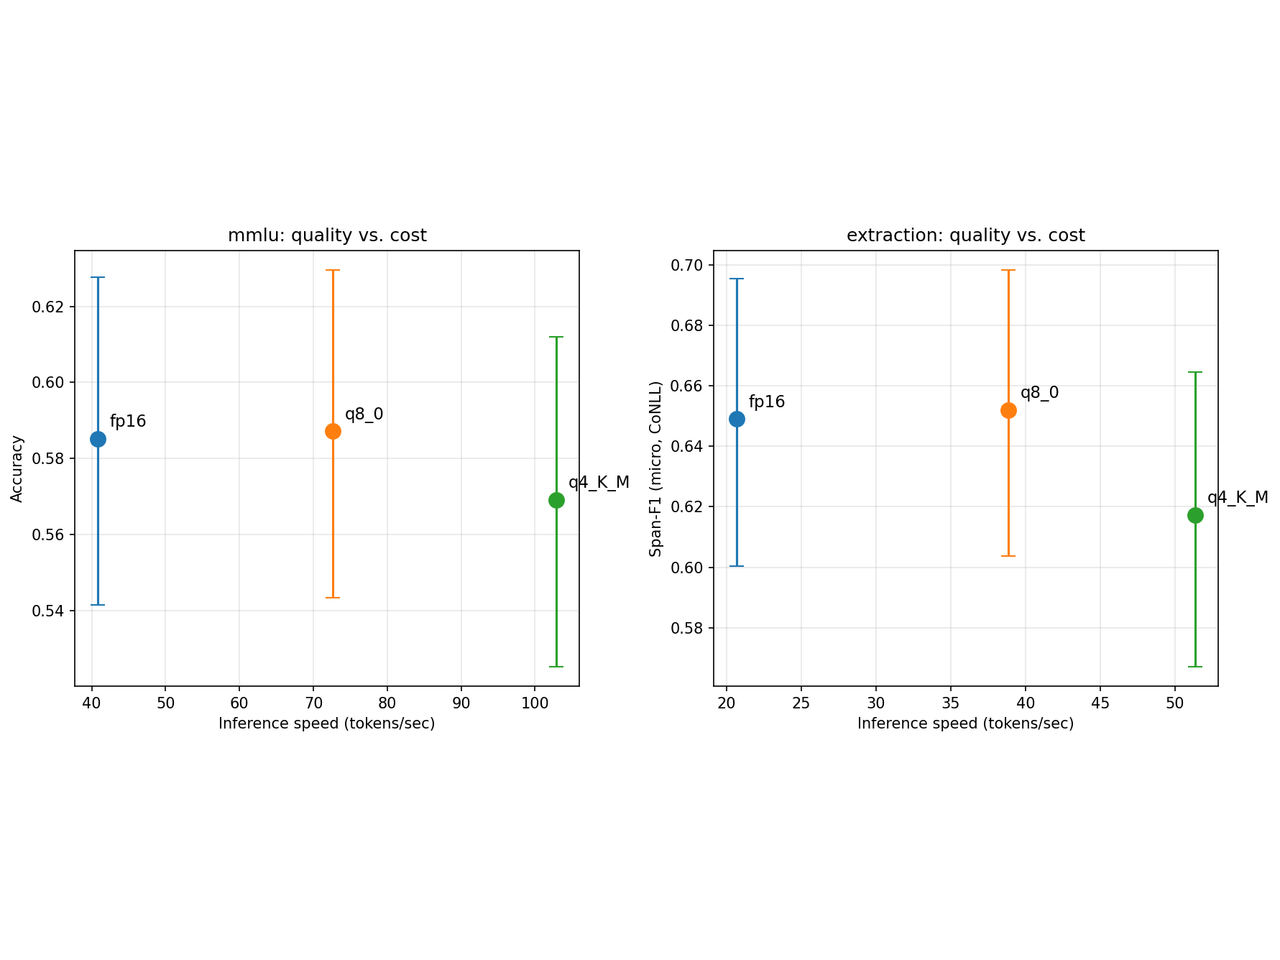
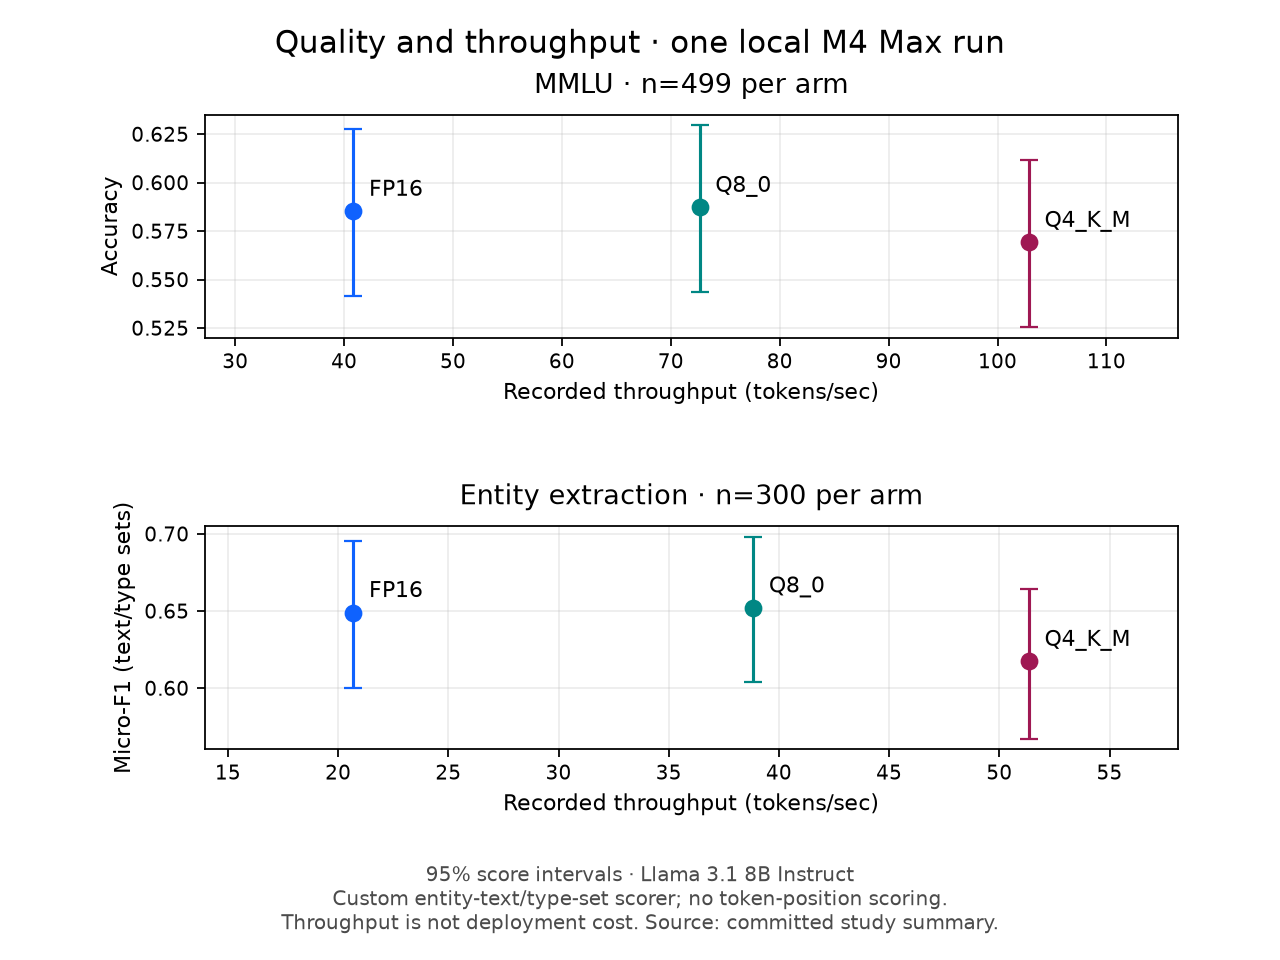
fix(content): align portfolio claims with repository evidence

diff --git a/src/content/work.ts b/src/content/work.ts
@@ -22,7 +22,7 @@ export const featuredProject: FeaturedProject = {
     "Three CMS sources from calendar year 2023, modeled in Snowflake with dbt. A public data app supports provider review, and the dbt documentation shows model lineage and tests.",
   metrics: [
     "43.7M rows · 3 CMS sources",
-    "dbt star schema · 48/48 tests",
+    "59 defined dbt checks",
     "9,490 peer groups · MAD + z-score",
     "Live data app + dbt docs",
   ],
@@ -131,7 +131,7 @@ export const projects: Project[] = [
     metrics: [
       "9 lease sections",
       "Review queue + saved corrections",
-      "PDF source links + OCR highlights",
+      "Source links + highlights when available",
       "6 MCP tools · shared backend",
     ],
   },
@@ -165,7 +165,7 @@ export const projects: Project[] = [
     title: "Quantization Study",
     category: "Applied LLM Research",
     summary:
-      "A study comparing 16-bit, 8-bit, and 4-bit versions of Llama 3.1 8B for output quality, processing speed, and memory use. Tests cover knowledge questions and extracting names, organizations, and locations from text.",
+      "A local study comparing FP16, Q8_0, and Q4_K_M versions of Llama 3.1 8B on knowledge questions and entity extraction. Reports task quality, throughput, and model file size on one M4 Max setup.",
     href: "/work/llm-quantization-study",
     slug: "llm-quantization-study",
     codeHref: "https://github.com/kristenmartino/llm-quantization-study",
@@ -175,11 +175,11 @@ export const projects: Project[] = [
     shape: "data-viz",
     image: "/work/quantization-pareto-4x3.png",
     imageAlt:
-      "Quantization Study — paired cost/quality plots for FP16, Q8_0, and Q4_K_M on MMLU accuracy and CoNLL NER micro-F1, with bootstrap confidence intervals.",
+      "Quantization Study — recorded throughput against MMLU accuracy and custom entity-text/type-set micro-F1, with 95% intervals for FP16, Q8_0, and Q4_K_M.",
     metrics: [
-      "3 arms × 800 examples (n=2,400)",
+      "2,400 raw outputs · 2,397 analyzed",
       "Paired bootstrap + Holm correction",
-      "Q8_0 within ±1pp on tested measures",
+      "Q8_0 meets exploratory ±1pp margin",
       "Q4_K_M: −3.2pp micro-F1 on NER (p_adj=0.032)",
     ],
     },
@@ -250,7 +250,7 @@ export const projects: Project[] = [
     imageAlt:
       "Sift — its 'The news, with footnotes' headline beside a summarized story card that links to structured dossiers.",
     metrics: [
-      "10 categories · ~50 outlets · AI summaries",
+      "10 categories · curated outlet registry",
       "Topic search + multi-source compare",
       "Dossiers · primer · inline glossary",
       "FastAPI + LangGraph + Anthropic",

diff --git a/scripts/build-quantization-figure.py b/scripts/build-quantization-figure.py
@@ -1,0 +1,71 @@
+"""Render the site's figures from a pinned summary, without rerunning models.
+
+Run from the repo root with Python 3.11+ and matplotlib:
+    python scripts/build-quantization-figure.py
+Source URL and full-summary SHA-256 are stored in the input JSON.
+"""
+
+import json
+from pathlib import Path
+
+import matplotlib
+
+matplotlib.use("Agg")
+import matplotlib.pyplot as plt
+
+
+ROOT = Path(__file__).resolve().parents[1]
+DATA = json.loads((ROOT / "scripts/data/quantization-figure.json").read_text())
+COLORS = {"fp16": "#0f62fe", "q8_0": "#008784", "q4_K_M": "#9f1853"}
+LABELS = {"fp16": "FP16", "q8_0": "Q8_0", "q4_K_M": "Q4_K_M"}
+
+
+def render(filename, size, vertical=False):
+    fig, axes = plt.subplots(2 if vertical else 1, 1 if vertical else 2, figsize=size)
+    fig.subplots_adjust(
+        left=0.16 if vertical else 0.09,
+        right=0.92 if vertical else 0.97,
+        top=0.88 if vertical else 0.84,
+        bottom=0.22 if vertical else 0.23,
+        hspace=0.85,
+        wspace=0.34,
+    )
+    for ax, task in zip(axes.flat, DATA["tasks"]):
+        for point in task["points"]:
+            mean, low, high = (point[k] for k in ("mean", "lower", "upper"))
+            assert 0 <= low <= mean <= high <= 1
+            x = point["tokens_per_second"]
+            ax.errorbar(
+                x, mean, yerr=[[mean - low], [high - mean]],
+                fmt="o", markersize=7, capsize=4,
+                color=COLORS[point["arm"]], linewidth=1.4,
+            )
+            ax.annotate(
+                LABELS[point["arm"]], (x, mean), xytext=(7, 7),
+                textcoords="offset points", fontsize=10,
+            )
+        ax.set_title(
+            f"{'MMLU' if task['task'] == 'mmlu' else 'Entity extraction'}"
+            f" · n={task['n_per_arm']} per arm", fontsize=12, pad=10,
+        )
+        ax.set_xlabel("Recorded throughput (tokens/sec)", fontsize=10)
+        ax.set_ylabel("Accuracy" if task["task"] == "mmlu" else "Micro-F1 (text/type sets)", fontsize=10)
+        ax.margins(x=0.22)
+        ax.grid(alpha=0.23)
+        ax.set_axisbelow(True)
+        ax.tick_params(labelsize=9)
+    fig.suptitle("Quality and throughput · one local M4 Max run", fontsize=14, y=0.97)
+    fig.text(
+        0.5, 0.025 if vertical else 0.055,
+        "95% score intervals · Llama 3.1 8B Instruct\n"
+        "Custom entity-text/type-set scorer; no token-position scoring.\n"
+        "Throughput is not deployment cost. Source: committed study summary.",
+        ha="center", va="bottom", fontsize=9, color="#4b4b4b",
+    )
+    fig.savefig(ROOT / "public/work" / filename, dpi=160, facecolor="white")
+    plt.close(fig)
+
+
+if __name__ == "__main__":
+    render("quantization-pareto.png", (12, 5.5))
+    render("quantization-pareto-4x3.png", (8, 6), vertical=True)

diff --git a/README.md b/README.md
@@ -66,6 +66,15 @@ adding an entry to `work.ts` and creating `src/content/work/<slug>.mdx` with the
 Site-wide copy (tagline, navigation, contact links) lives in
 [`src/content/site.ts`](src/content/site.ts).
 
+### Quantization figure provenance
+
+The case-study and card figures are generated from
+[`scripts/data/quantization-figure.json`](scripts/data/quantization-figure.json),
+which records a pinned study-summary URL and its SHA-256. With Python 3.11+
+and Matplotlib installed, run `python scripts/build-quantization-figure.py`.
+This redraws the recorded scores and intervals; it does not rerun models.
+The entity metric is normalized text/type-set micro-F1, not token-span scoring.
+
 > **Note:** This project tracks Next.js 16, whose App Router and config differ from
 > earlier versions. See [`AGENTS.md`](AGENTS.md) before making framework-level changes.
 
